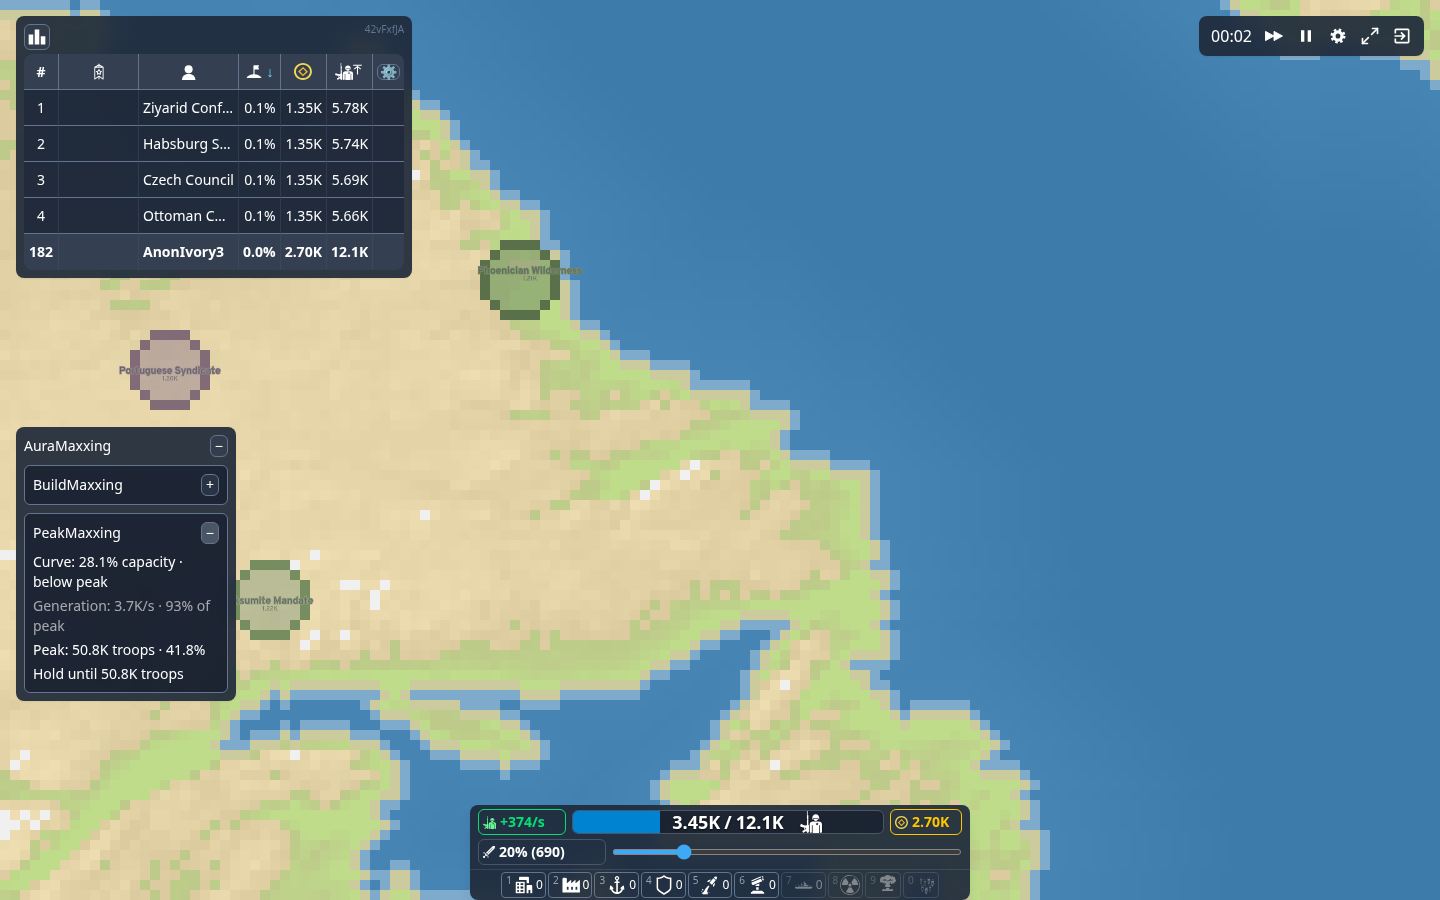
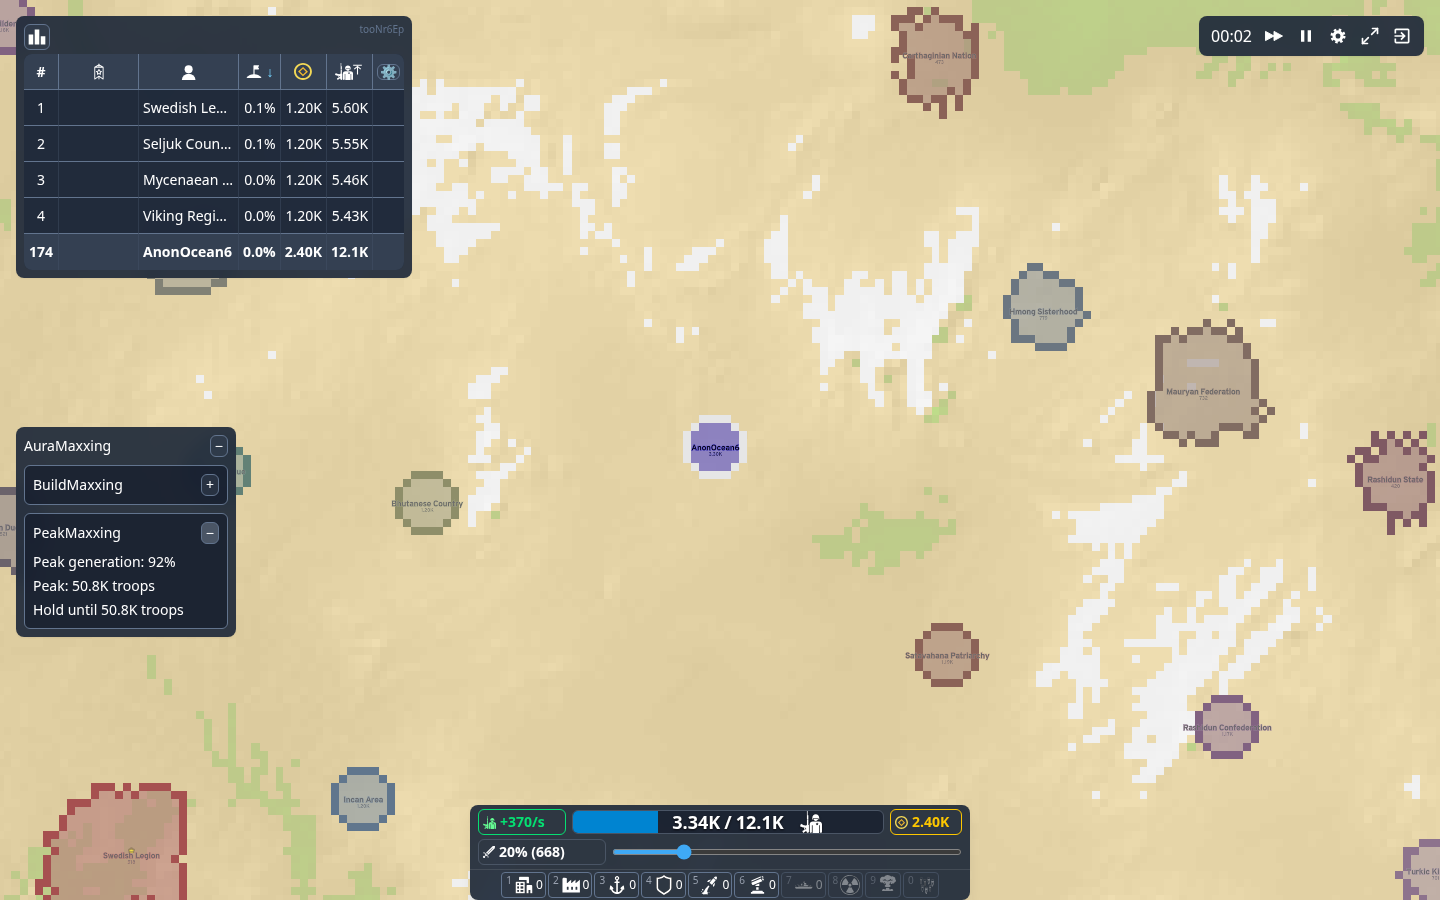
Simplify PeakMaxxing generation guidance

diff --git a/src/features/peakMaxxing.js b/src/features/peakMaxxing.js
@@ -16,16 +16,15 @@ const buildBody = () => {
   const body = document.createElement("div");
   body.className = "flex flex-col gap-1 text-sm";
   body.innerHTML = `
-    <span data-position>Waiting for a match</span>
-    <span class="text-white/60" data-rate></span>
+    <span data-generation>Waiting for a match</span>
     <span data-target></span>
     <span data-advice></span>`;
   return body;
 };
 
 const clearBody = (body, message) => {
-  body.querySelector("[data-position]").textContent = message;
-  for (const selector of ["[data-rate]", "[data-target]", "[data-advice]"]) {
+  body.querySelector("[data-generation]").textContent = message;
+  for (const selector of ["[data-target]", "[data-advice]"]) {
     body.querySelector(selector).textContent = "";
   }
 };
@@ -37,25 +36,16 @@ const render = (body, state) => {
     return;
   }
 
-  const currentRatio = state.troops / state.maxTroops;
   const peakRate = troopIncreaseRateAt(plan.targetTroops, state.maxTroops) * 10;
   const rateRatio = Math.max(
     0,
     Math.min(1, state.increasePerSecond / peakRate),
   );
-  const side =
-    Math.abs(state.troops - plan.targetTroops) / state.maxTroops < 0.005
-      ? "at peak"
-      : state.troops < plan.targetTroops
-        ? "below peak"
-        : "past peak";
 
-  body.querySelector("[data-position]").textContent =
-    `Curve: ${(currentRatio * 100).toFixed(1)}% capacity · ${side}`;
-  body.querySelector("[data-rate]").textContent =
-    `Generation: ${number.format(state.increasePerSecond)}/s · ${Math.round(rateRatio * 100)}% of peak`;
+  body.querySelector("[data-generation]").textContent =
+    `Peak generation: ${Math.round(rateRatio * 100)}%`;
   body.querySelector("[data-target]").textContent =
-    `Peak: ${number.format(plan.targetTroops)} troops · ${(plan.targetRatio * 100).toFixed(1)}%`;
+    `Peak: ${number.format(plan.targetTroops)} troops`;
   body.querySelector("[data-advice]").textContent =
     plan.attackPercent > 0
       ? `Attack up to ${plan.attackPercent}% now`

diff --git a/test/peakTroops.test.js b/test/peakTroops.test.js
@@ -23,7 +23,6 @@ assert.equal(troopIncreaseRateAt(maxTroops, maxTroops), 0);
 const surplus = peakTroopPlan(60000, maxTroops);
 assert.equal(surplus.attackPercent, 30);
 assert.equal(surplus.targetTroops, target);
-assert.equal(surplus.targetRatio, target / maxTroops);
 assert.ok(60000 * (1 - surplus.attackPercent / 100) >= target);
 assert.ok(60000 * (1 - (surplus.attackPercent + 1) / 100) < target);
 assert.equal(peakTroopPlan(40000, maxTroops).attackPercent, 0);

diff --git a/src/api/game.js b/src/api/game.js
@@ -161,7 +161,6 @@ export const peakTroopPlan = (troops, maxTroops) => {
   const surplusRatio = troops > 0 ? (troops - targetTroops) / troops : 0;
   return {
     targetTroops,
-    targetRatio: targetTroops / maxTroops,
     attackPercent: Math.max(0, Math.floor(surplusRatio * 100)),
   };
 };
